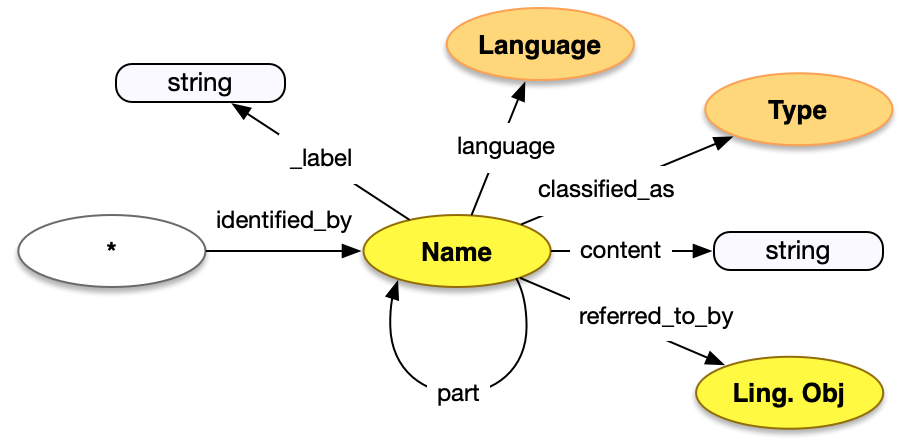
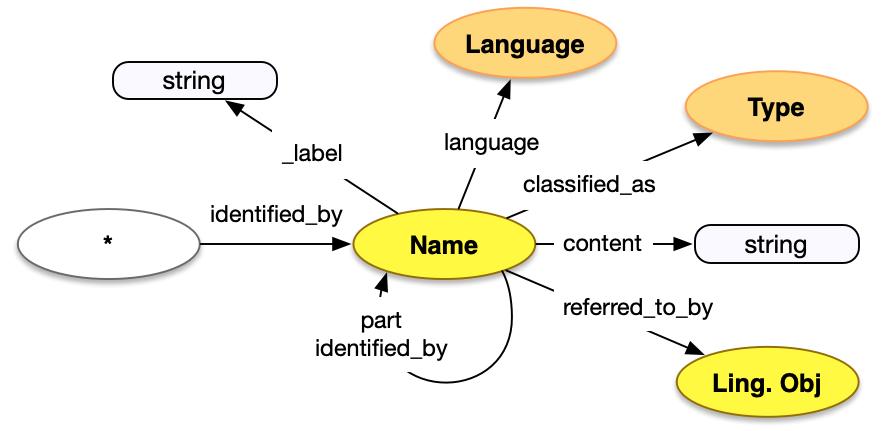
remove id, add name/stmt

diff --git a/docs/api/1.0/shared/name/index.md b/docs/api/1.0/shared/name/index.md
@@ -28,13 +28,13 @@ Names are described in the [base patterns](/model/base/#types-and-classification
 
 | Property Name     | Datatype      | Requirement | Description | 
 |-------------------|---------------|-------------|-------------|
-| `id`              | string        | Optional    | If present, the value MUST be a URI identifying the name |   <!--  -->
 | `type`            | string        | Required    | The class for the name, which MUST be the value `"Name"` | 
 | `_label`          | string        | Optional    | A human readable label, intended for developers | <!-- LAF.4 -->
 | `content`         | string        | Required    | The string form of the Name | <!-- LAF.6 -->
 | `classified_as`   | array         | Recommended | An array of json objects, each of which is a further classification of the name and MUST follow the requirements for [Type](../type/) | <!-- LAF.5 -->
 | `language`        | array         | Recommended | An array of json objects, each of which is a language present in the content of the name and MUST follow the requirements for [Language](../type/)| <!-- LAF.7 -->
 | `part`            | array         | Optional    | An array of json objects, each of which is a part of the current name, and MUST follow these requirements for Names| <!-- -->
+| `identified_by`   | array         | Optional    | An array of json objects, each of which is a name for this Name and follows the Name pattern |
 | `referred_to_by`  | array         | Optional    | An array of json objects, each of which is either a reference to a [textual work](../../endpoint/textual_work/) that refers to the name, or an embedded [statement](../statement/) about the name. | <!-- -->
 
 ### Property Diagram
@@ -60,6 +60,7 @@ An object is given the name "Hacha (Ceremonial Axe)", with a note that the origi
 * It has a `type` of "Name"
 * It is `classified_as` a primary name, with `id` of _aat:300404670_ and a `type` of "Type"
 * It has `content` of "Hacha (Ceremonial Axe)"
+* It has a display label of "Assigned Title"
 * It is `referred_to_by` a statement, with a `type` of "LinguisticObject", `classified_as` a note with `id` of _aat:300027200_ and with `content` of "Title was originally ..."
 * It has languages of English, with an `id` of _aat:300388277_ and `type` of "Language", and Spanish, with an `id` of _aat:300389311_ and `type` of "Language"
 * It has a specific `part`, which ...
@@ -77,12 +78,12 @@ top.identified_by = n
 st = vocab.Subtitle(content="Ceremonial Axe")
 st.language = vocab.instances['english']
 n.part = st
+n.identified_by = vocab.DisplayName(content="Assigned Title")
 n.referred_to_by = vocab.Note(content="Title was originally given as 'hacha'")
 ```
 
 
 ## Future Considerations
 
-* Explicit pairs of alternative names or translations of names. For example the name "Axe" is a translation of "Hacha", or "Æon Flux" has an alternative transliteration of "AEon Flux".
 * Assignments, as described for [Identifiers](../identifier/), could easily be added for Names, but there has not been a use case proposed.
 

diff --git a/docs/api/1.0/shared/statement/index.md b/docs/api/1.0/shared/statement/index.md
@@ -27,15 +27,14 @@ Statements are described in the [base patterns](/model/base/) of the model docum
 ### Properties of Names
 
 | Property Name     | Datatype      | Requirement | Description | 
-|-------------------|---------------|-------------|-------------|
-| `id`              | string        | Optional    | If present, the value MUST be a URI identifying the statement |  
+|-------------------|---------------|-------------|-------------| 
 | `type`            | string        | Required    | The class for the statement, which MUST be the value `"LinguisticObject"` |
 | `_label`          | string        | Optional    | A human readable label, intended for developers |
 | `content`         | string        | Required    | The string value of the statement |
 | `classified_as`   | array         | Recommended | An array of json objects, each of which is a further classification of the statement and MUST follow the requirements for [Type](../type/) |
 | `language`        | array         | Recommended | An array of json objects, each of which is a language present in the content of the statement and MUST follow the requirements for [Language](../type/)|
 | `identified_by`   | array         | Recommended | An array of json objects, each of which is a label or name for the statement, and MUST follow the requirements for [Name](../name/) |
-
+| `referred_to_by`  | array         | Optional    | An array of json objects, each of which is either a reference to a [textual work](../../endpoint/textual_work/) that refers to the statement, or an embedded [statement](../statement/) about this Statement | <!-- -->
 
 ### Property Diagram
 
@@ -55,17 +54,18 @@ Statements are typically found as the object of the following properties.  This 
 
 An object is `referred_to_by` a Description in English.
 
-* It is `identified_by` a URI
-* It has a `type` of "LinguisticObject"
+* The description has a `type` of "LinguisticObject"
 * It is `classified_as` a description, with an `id` of _aat:300411780_ and `type` of "Type".  The description concept is in turn `classified_as` a type of "brief text"
 * It has `content` of "A small greenstone pendant..."
 * It is `identified_by` a display label, which has a `type` of "Name", and `content` of "Description"
 * It has a `language` of English, which has an `id` of _aat:300388277_
+* It has a statement about the description, saying that it was provided by the artist.
 
 ```crom
 top = model.HumanMadeObject(ident="auto int-per-segment")
 d = vocab.Description(content="A small greenstone pendant surrounded by silver")
 d.language = vocab.instances['english']
 d.identified_by = vocab.DisplayName(content="Description")
+d.referred_to_by = model.LinguisticObject(content="Description provided by the artist")
 top.referred_to_by = d
 ```

diff --git a/docs/api/1.0/shared/identifier/index.md b/docs/api/1.0/shared/identifier/index.md
@@ -29,8 +29,7 @@ Identifiers have the following properties.
 ### Properties of Identifiers
 
 | Property Name     | Datatype      | Requirement | Description | 
-|-------------------|---------------|-------------|-------------|
-| `id`              | string        | Optional    | If present, the value MUST be a URI identifying the identifier, rather than the URI which is the identifier of the object |  
+|-------------------|---------------|-------------|-------------| 
 | `type`            | string        | Required    | The class for the name, which MUST be the value `"Identifier"` |
 | `_label`          | string        | Recommended | A human readable label, intended for developers | <!-- LAF.8 -->
 | `content`         | string        | Required    | The string content of the identifier | <!-- LAF.10 -->
@@ -43,7 +42,6 @@ Identifiers have the following properties.
 
 | Property Name     | Datatype      | Requirement | Description | 
 |-------------------|---------------|-------------|-------------|
-| `id`              | string        | Optional    | If present, the value MUST be a URI identifying the assignment |  
 | `type`            | string        | Required    | The class for the name, which MUST be the value `"AttributeAssignment"` |
 | `_label`          | string        | Recommended | A human readable label for the assignment, intended for developers |
 | `classified_as`   | array         | Recommended | An array of json objects, each of which is a further classification of the assignment and MUST follow the requirements for [Type](../type/) |

diff --git a/docs/api/1.0/shared/dimension/index.md b/docs/api/1.0/shared/dimension/index.md
@@ -28,7 +28,6 @@ The dimension data structure has the following properties.
 
 | Property Name     | Datatype      | Requirement | Description | 
 |-------------------|---------------|-------------|-------------|
-| `id`              | string        | Optional    | If present, the value MUST be a URI identifying the dimension |  
 | `type`            | string        | Required    | The class for the name, which MUST be the value `"Dimension"` |
 | `_label`          | string        | Recommended | A human readable label, intended for developers |
 | `value`           | number        | Required    | The numeric value of the dimension |
@@ -44,7 +43,6 @@ The dimension data structure has the following properties.
 
 | Property Name     | Datatype      | Requirement | Description | 
 |-------------------|---------------|-------------|-------------|
-| `id`              | string        | Optional    | If present, the value MUST be a URI identifying the measurement |  
 | `type`            | string        | Required    | The class for the measurement, which MUST be the value `"AttributeAssignment"` |
 | `_label`          | string        | Recommended | A human readable label for the measurement, intended for developers |
 | `classified_as`   | array         | Recommended | An array of json objects, each of which is a further classification of the measurement and MUST follow the requirements for [Type](../type/) |

diff --git a/docs/api/1.0/shared/assignment/index.md b/docs/api/1.0/shared/assignment/index.md
@@ -25,8 +25,7 @@ The relationship assignment data structure has the following properties.
 ### Properties of Assignments
 
 | Property Name     | Datatype      | Requirement | Description | 
-|-------------------|---------------|-------------|-------------|
-| `id`              | string        | Optional    | If present, the value MUST be a URI identifying the assignment |  
+|-------------------|---------------|-------------|-------------| 
 | `type`            | string        | Required    | The class for the assignment, which MUST be the value `"AttributeAssignment"` |
 | `_label`          | string        | Recommended | A human readable label for the assignment, intended for developers |
 | `identified_by`   | array         | Recommended | An array of json objects, each of which is a name of the assignment and MUST follow the requirements for [Name](../../shared/name/), or an identifier for the assignment and MUST follow the requirements for [Identifier](../../shared/identifier/)|

diff --git a/docs/api/1.0/shared/money/index.md b/docs/api/1.0/shared/money/index.md
@@ -29,8 +29,7 @@ The monetary amount data structure has the following properties.
 ### Properties of Monetary Amounts
 
 | Property Name     | Datatype      | Requirement | Description | 
-|-------------------|---------------|-------------|-------------|
-| `id`              | string        | Optional    | If present, the value MUST be a URI identifying the monetary amount |  
+|-------------------|---------------|-------------|-------------| 
 | `type`            | string        | Required    | The class for the name, which MUST be the value `"MonetaryAmount"` |
 | `_label`          | string        | Recommended | A human readable label, intended for developers |
 | `value`           | number        | Required    | The numeric value of the amount |

diff --git a/docs/api/1.0/shared/timespan/index.md b/docs/api/1.0/shared/timespan/index.md
@@ -30,7 +30,6 @@ The time span data structure has the following properties.
 
 | Property Name     | Datatype      | Requirement | Description | 
 |-------------------|---------------|-------------|-------------|
-| `id`              | string        | Optional    | If present, the value MUST be a URI identifying the time span |  
 | `type`            | string        | Required    | The class for the name, which MUST be the value `"TimeSpan"` |
 | `_label`          | string        | Recommended | A human readable label, intended for developers |
 | `classified_as`   | array         | Recommended | An array of json objects, each of which is a further classification of the time span and MUST follow the requirements for [Type](../type/) |
